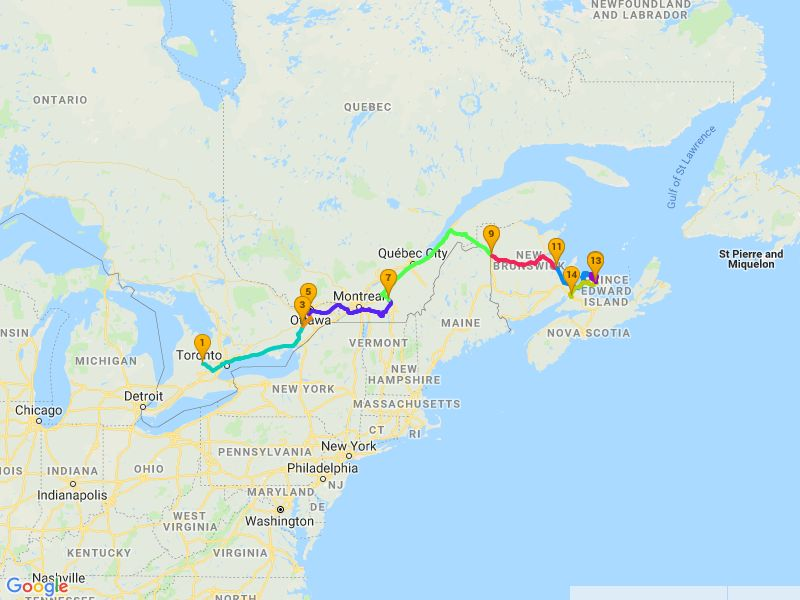
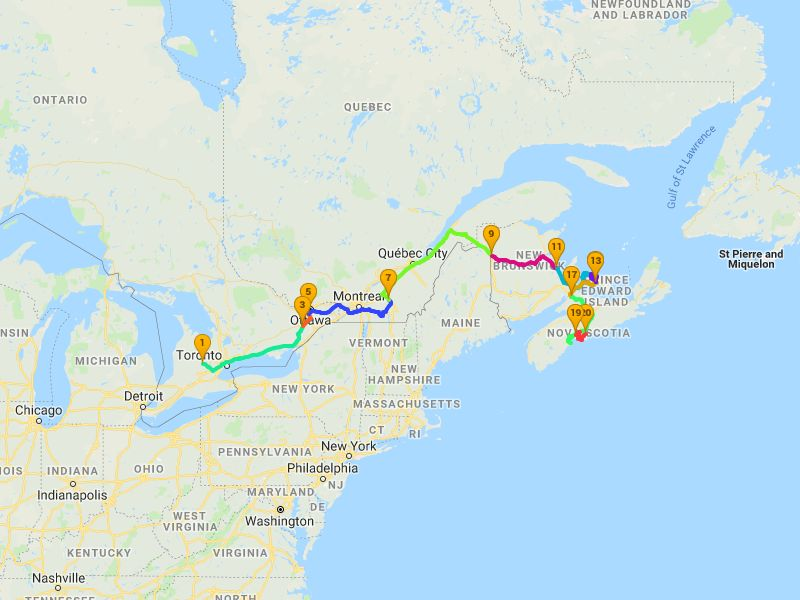
Site updated: 2018-06-18 14:57:21

diff --git a/map/index.html b/map/index.html
@@ -175,7 +175,7 @@ if (url.searchParams.get("dates")) {
 	});
 }
 if (!url.searchParams.get("dates") || dates.length === 0) {
-	const input_dates = {"raw_dates":["2018-06-08", "2018-06-11", "2018-06-12", "2018-06-13", "2018-06-14", "2018-06-15"]}
+	const input_dates = {"raw_dates":["2018-06-08", "2018-06-11", "2018-06-12", "2018-06-13", "2018-06-14", "2018-06-15", "2018-06-16", "2018-06-17"]}
 
 	raw_dates = input_dates.raw_dates;
 	raw_dates.forEach(function(date) {
